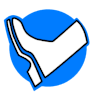
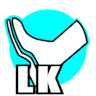
don't need those individual letters for LP, MP, etc...

diff --git a/inputPage.html b/inputPage.html
@@ -20,19 +20,13 @@
     </p>
     <table onclick="getButton(event)" id="kicks">
       <td>
-        <img class="overlap" src="images\96_text_L.png">
-        <img command="lk" class="overlap" src="images\96_text_K.png">
-        <img src="images\96_kick_light.png">
+        <img command="lk" src="images\96_kick_light.png">
       </td>
       <td>
-        <img class="overlap" src="images\96_text_M.png">
-        <img command="mk" class="overlap" src="images\96_text_K.png">
-        <img src="images\96_kick_medium.png">
+        <img command="mk" src="images\96_kick_medium.png">
       </td>
       <td>
-        <img class="overlap" src="images\96_text_H.png">
-        <img command="hk" class="overlap" src="images\96_text_K.png">
-        <img src="images\96_kick_heavy.png">
+        <img command="hk" src="images\96_kick_heavy.png">
       </td>
       <td><img style="width:33%" command="k" src="images\96_Kick.png">
         <img style="width:65%"class="" command="2k" src="images\96_2xKick.png"></td>
@@ -40,19 +34,13 @@
     </table>
     <table onclick="getButton(event)" id="punches">
       <td>
-        <img class="overlap" src="images\96_text_L.png">
-        <img command="lp" class="overlap" src="images\96_text_P.png">
-        <img src="images\96_punch_light.png">
+        <img command="lp" src="images\96_punch_light.png">
       </td>
       <td>
-        <img class="overlap" src="images\96_text_M.png">
-        <img command="mp"  class="overlap" src="images\96_text_P.png">
-        <img src="images\96_punch_medium.png">
+        <img command="mp" src="images\96_punch_medium.png">
       </td>
       <td>
-        <img class="overlap" src="images\96_text_H.png">
-        <img command="hp"  class="overlap" src="images\96_text_P.png">
-        <img src="images\96_punch_heavy.png">
+        <img command="hp" src="images\96_punch_heavy.png">
       </td>
       <td><img style="width:33%" command="p" src="images\96_Punch.png">
         <img style="width:65%" command="2p" src="images\96_2xPunch.png"></td>

diff --git a/javascripts/inputLoad.js b/javascripts/inputLoad.js
@@ -168,22 +168,22 @@ function expandCommand(match){
   }
   switch(match){
     case "[lk]":
-      html.appendChild(mergeButtons(["images/96_kick_light.png","images/96_text_K.png","images/96_text_L.png"],"h48"));
+      html.appendChild(mergeButtons(["images/96_kick_light.png"],"h48"));
       break;
     case "[mk]":
-      html.appendChild(mergeButtons(["images/96_kick_medium.png","images/96_text_K.png","images/96_text_M.png"],"h48"));
+      html.appendChild(mergeButtons(["images/96_kick_medium.png"],"h48"));
       break;
     case "[hk]":
-      html.appendChild(mergeButtons(["images/96_kick_heavy.png","images/96_text_K.png","images/96_text_H.png"],"h48"));
+      html.appendChild(mergeButtons(["images/96_kick_heavy.png"],"h48"));
       break;
     case "[lp]":
-      html.appendChild(mergeButtons(["images/96_punch_light.png","images/96_text_P.png","images/96_text_L.png"],"h48"));
+      html.appendChild(mergeButtons(["images/96_punch_light.png"],"h48"));
       break;
     case "[mp]":
-      html.appendChild(mergeButtons(["images/96_punch_medium.png","images/96_text_P.png","images/96_text_M.png"],"h48"));
+      html.appendChild(mergeButtons(["images/96_punch_medium.png"],"h48"));
       break;
     case "[hp]":
-      html.appendChild(mergeButtons(["images/96_punch_heavy.png","images/96_text_P.png","images/96_text_H.png"],"h48"));
+      html.appendChild(mergeButtons(["images/96_punch_heavy.png"],"h48"));
       break;
     case "[k]":
       html.appendChild(makeButton("images/96_Kick.png","h48"));
